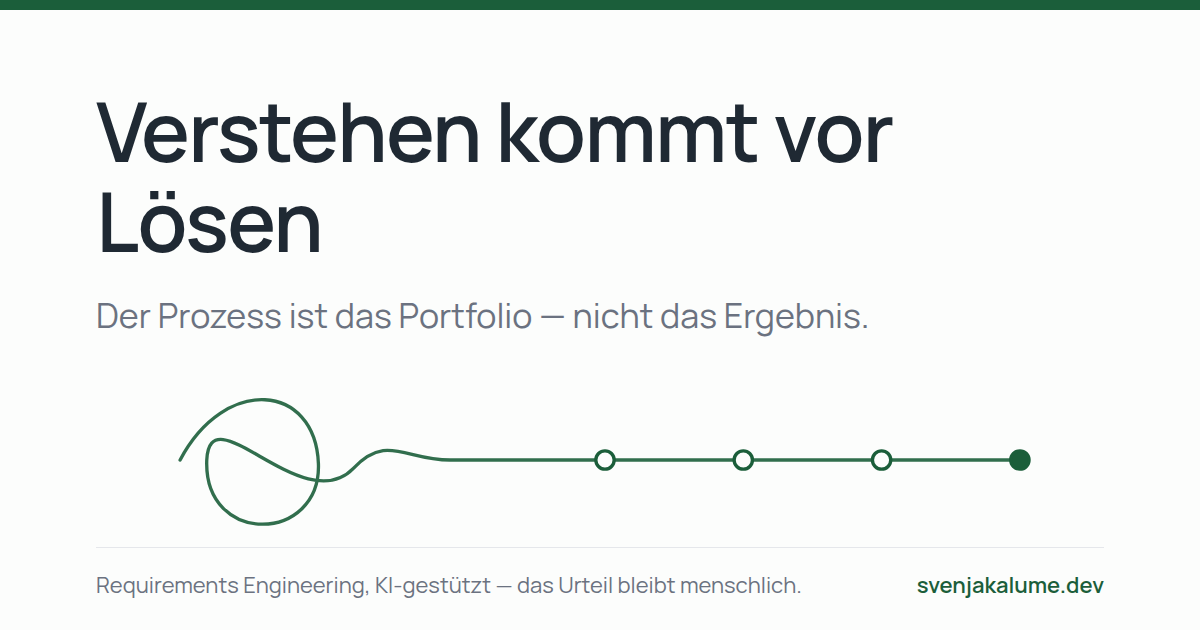
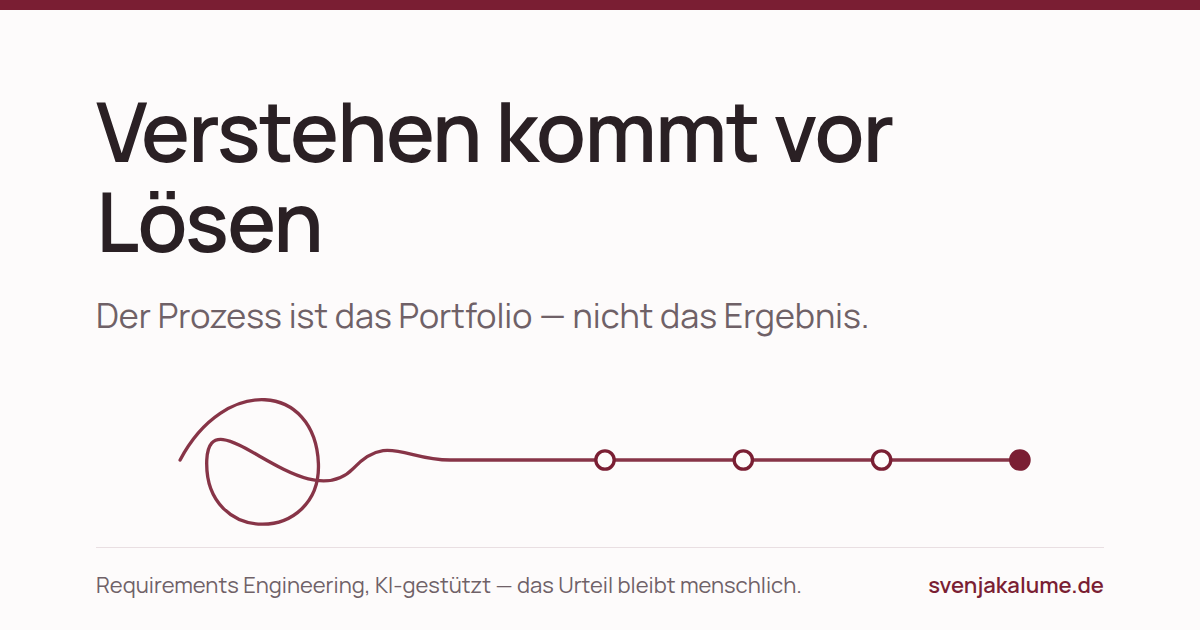
Move to svenjakalume.de and finish the legal pages
The .dev domain was a working name; the real one carries the same word as the
contact address. Changed in the one place the site writes it -- astro.config,
the schema helper, both fallbacks, robots.txt -- and in the social preview
image, whose footer shows the domain, so public/og/*.png are regenerated.

The privacy page was a placeholder that claimed no personal data is processed
at all. It is rewritten to say what actually happens: the hosting provider's
server logs, with their categories, legal basis and the seven-day retention
IONOS states for its hosting products; contact by e-mail or phone; the one
outgoing link; the data subject rights under Art. 15-21; and the supervisory
authority to complain to. What the site genuinely does not do -- cookies,
tracking, third-party requests -- is now a claim the reader can check rather
than a blanket sentence.

The imprint gains the telephone number: e-mail alone is a thin reading of the
"immediate communication" § 5 DDG asks for when there is no contact form.

Claude-Session: https://claude.ai/code/session_01JwSZU7nY7ZrUsotdQ5tVcg

diff --git a/src/lib/schema.ts b/src/lib/schema.ts
@@ -10,7 +10,7 @@
  */
 import type { Lang } from '../i18n/ui';
 
-export const SITE_URL = 'https://svenjakalume.dev';
+export const SITE_URL = 'https://svenjakalume.de';
 export const SITE_OWNER = 'Svenja Kalume';
 
 /** Absolute URL for a site-relative path — structured data may not use relative ones. */
